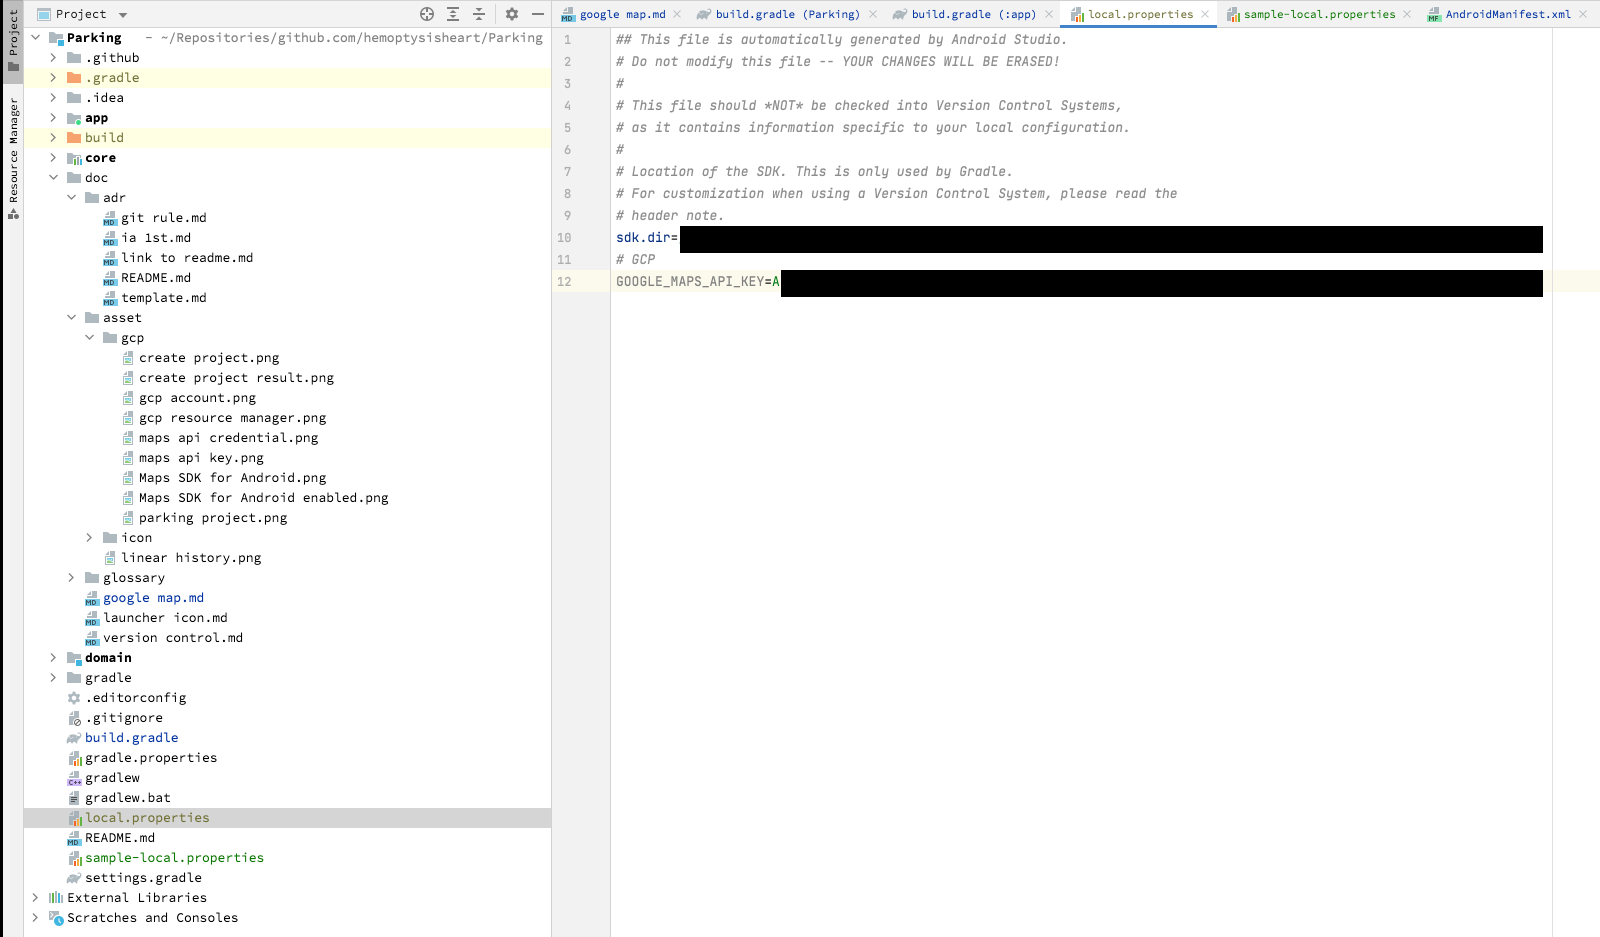
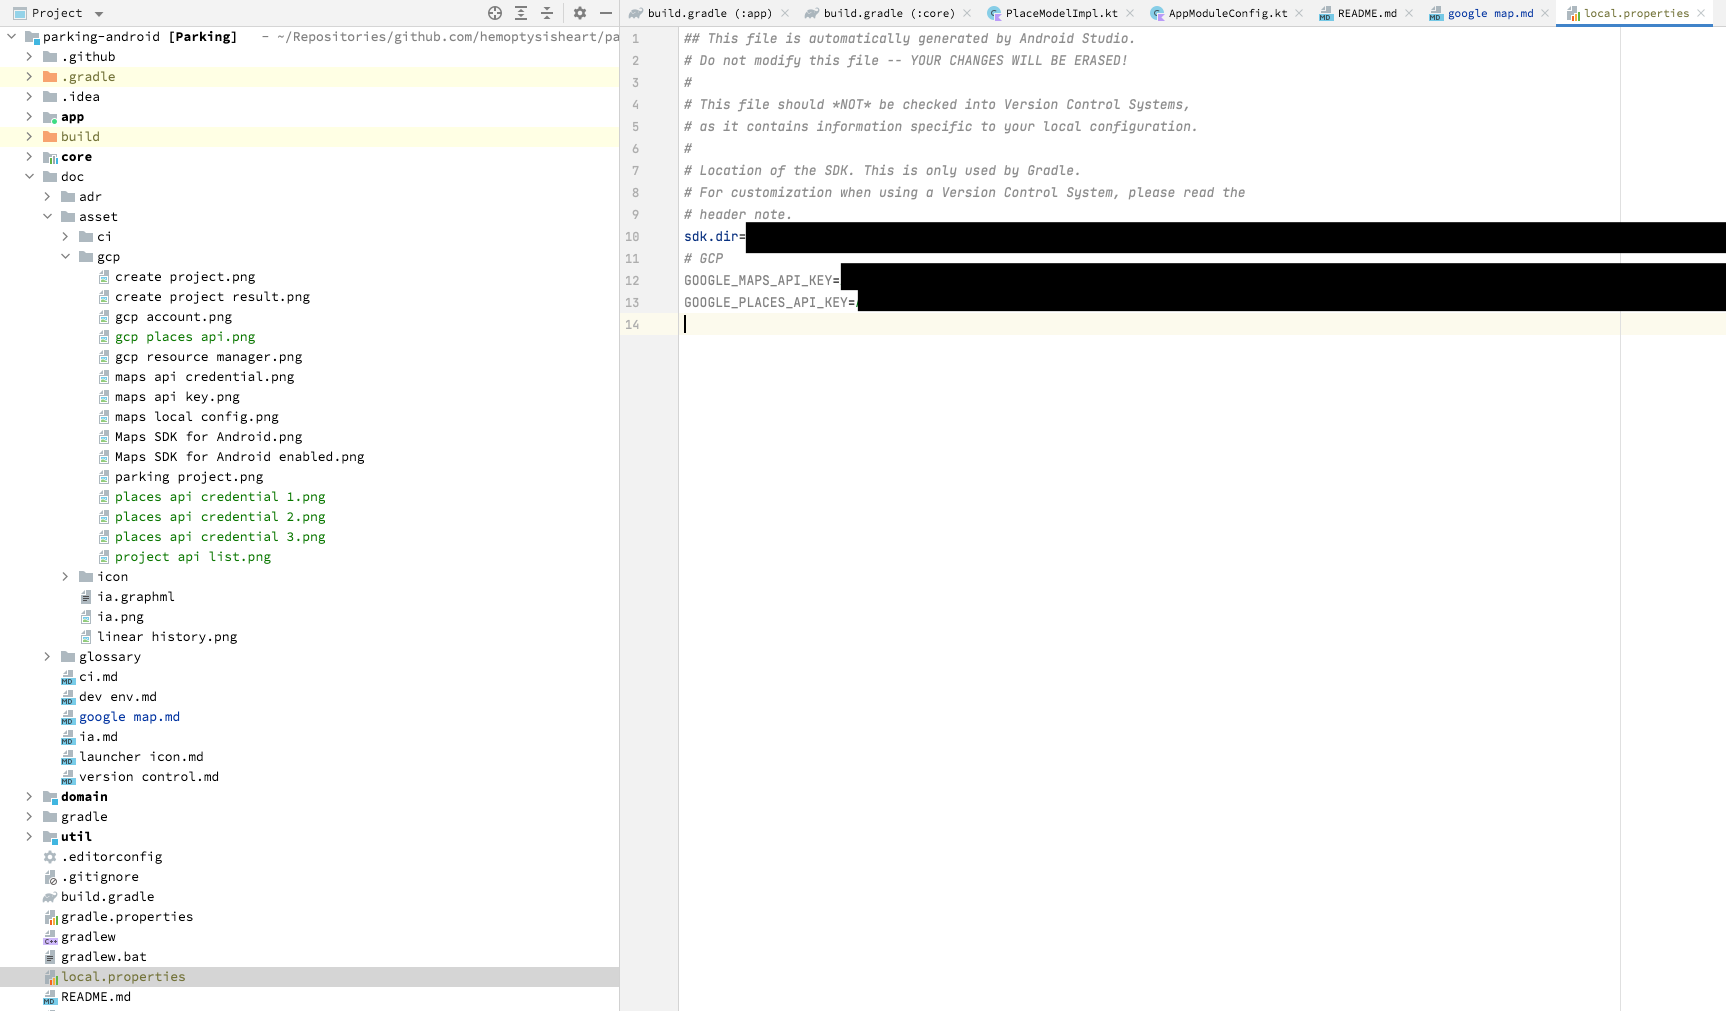
📝 Places API 문서 추가.

Changed region(s): [[0.0, 0.0, 1.0, 1.0]]

diff --git a/doc/google map.md b/doc/google map.md
@@ -17,7 +17,16 @@
     2. `사용자 인증 정보` -> `키 표시`
        ![설정](asset/gcp/maps%20api%20credential.png)
        ![키](asset/gcp/maps%20api%20key.png)
-4. 애플리케이션 설정.
+4. Places API 설정.
+    1. [Places API](https://console.cloud.google.com/apis/library/places-backend.googleapis.com) -> `사용` 클릭.
+       ![Places API](asset/gcp/gcp%20places%20api.png)
+    2. [API list](https://console.cloud.google.com/google/maps-apis/api-list)에서 확인.
+       ![API list](asset/gcp/project%20api%20list.png)
+    3. 사용자 인증 정보 -> `Places API` 선택 -> `사용자 인증 정보 만들기` 선택 -> `API 키` 선택.
+       ![Places API 사용자 인증 정보](asset/gcp/places%20api%20credential%201.png)
+       ![Places API 사용자 인증 정보 - 키 종류](asset/gcp/places%20api%20credential%202.png)
+       ![Places API 사용자 인증 정보 - 결과](asset/gcp/places%20api%20credential%203.png)
+5. 애플리케이션 설정.
     1. 의존성 추가
         - 플러그인 : `com.google.android.libraries.mapsplatform.secrets-gradle-plugin`
         - 라이브러리 :
@@ -43,7 +52,7 @@
         - 키 추가 : `<meta-data android:name="com.google.android.geo.API_KEY" android:value="${GOOGLE_MAPS_API_KEY}" />`
     3. 키 설정 추가 : [`sample-local.properties`](../sample-local.properties) 파일을 복사해서 `local.properties` 파일을 만들고, 설정을 변경.
        ![로컬 키 설정](asset/gcp/maps%20local%20config.png)
-5. 지도 표시
+6. 지도 표시
     1. 의존성 추가 : `com.google.maps.android:maps-compose`, `com.google.android.gms:play-services-maps`
     2. UI 추가 : [`MapLayout()`](../app/src/main/java/com/github/hemoptysisheart/parking/app/activity/MapActivity.kt)
 
